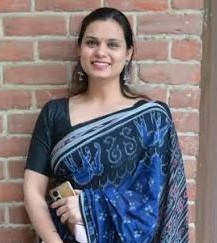
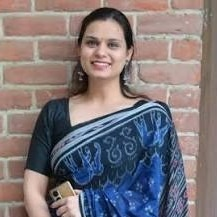
hell

diff --git a/images/team/README.md b/images/team/README.md
@@ -14,3 +14,5 @@ Put each member's photo in this folder, named after the member (lower case, `.jp
 Square or portrait photos, about 400 x 400 px or more, work best (shown as a round crop, top-aligned).
 Alternative spellings and the older names (`nikhil_pic.jpg`, `monu_pic.jpeg`, ...) are also found; `images/` and the folder of `index.html` are searched too.
 Use lower-case file names: GitHub Pages and Linux servers are case-sensitive. If no photo is found the member's initials are shown.
+
+Included: the six photos supplied for this release, already cropped to square head-and-shoulders. The uncropped originals are in `originals/` (not read by the page).
